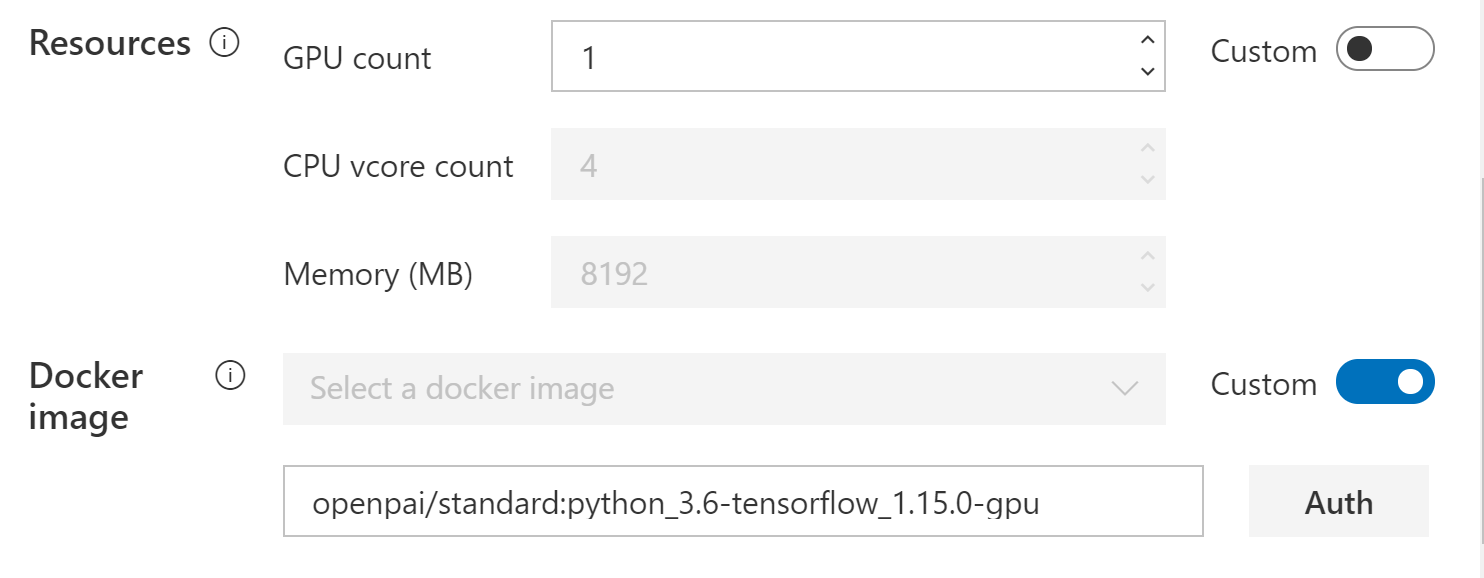
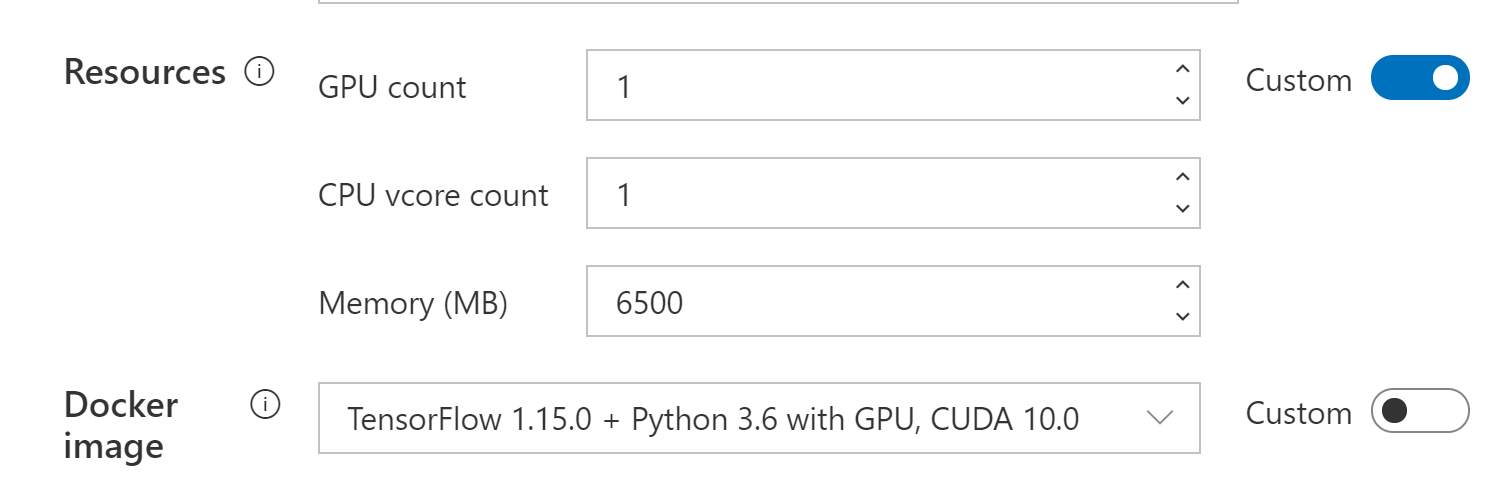
update docs

diff --git a/manual/cluster-user/quick-start.md b/manual/cluster-user/quick-start.md
@@ -2,8 +2,9 @@
 
 1. [Quick Start](/manual/cluster-user/quick-start.md) (this document)
     - [Submit a Hello World Job](#submit-a-hello-world-job)
-    - [Learn the Hello World Job](#learn-the-hello-world-job)
     - [Browse Stdout, Stderr, Full Logs, and Metrics](#browse-stdout-stderr-full-logs-and-metrics)
+    - [Submit a Hello World Job Step by Step](#submit-a-hello-world-job-step-by-step)
+    - [Learn the Hello World Job](#learn-the-hello-world-job)
 2. [Work with Docker Images](/manual/cluster-user/work-with-docker-images.md)
 3. [How to Manage Data](/manual/cluster-user/how-to-manage-data.md)
 4. [How to Debug Jobs](/manual/cluster-user/how-to-debug-jobs.md)
@@ -14,9 +15,30 @@
 
 ## Submit a Hello World Job
 
-The **job** of OpenPAI defines how to execute code(s) and command(s) in specified environment(s). A job can be run on single node or distributedly.
+The **job** of OpenPAI defines how to execute code(s) and command(s) in specified environment(s). It can be run on single node or distributedly.
 
-The following process submits a model training job implemented by TensorFlow on CIFAR-10 dataset. It downloads data and code from internet and helps getting started with OpenPAI. [Next Section](#Learn-the-Hello-World-Job) includes more details about this job config.
+For a quick start, please download [`hello-world-job.yaml`](./examples/hello-world-job.yaml).
+
+Then login to OpenPAI webportal, click `Submit Job` -> `Import Config`:
+
+<img src="/manual/cluster-user/imgs/quick-start-click-import.png" width="90%" height="90%" />
+
+Select the downloaded `hello-world-job.yaml` file, and submit the job:
+
+<img src="/manual/cluster-user/imgs/quick-start-click-submit.png" width="90%" height="90%" />
+
+Now your first OpenPAI job has been kicked off!
+
+
+## Browse Stdout, Stderr, Full logs, and Metrics
+
+The hello world job is implemented by TensorFlow. It trains a simple model on CIFAR-10 dataset for 1,000 steps with downloaded data and code from the Internet.
+
+TBD.
+
+## Submit the Hello World Job Step by Step
+
+Instead of importing a job configuration file, you can submit the hello world job directly through the web page. The following is a step-by-step guide:
 
 1. Login to OpenPAI web portal.
 
@@ -37,17 +59,17 @@ The following process submits a model training job implemented by TensorFlow on 
 
     <img src="/manual/cluster-user/imgs/hello-world-command.png" width="90%" height="90%" alt="hello_world2" />
 
-4. Specify the resources you need. By default only GPU number could be set. Toggle the `custom` button if you need to customize CPU number and memory. Here we use the default setting which utilizes 1 GPU, 4 CPU vCores, and 8192 MB memory.
+4. Specify the resources you need. By default only GPU number could be set. Toggle the `custom` button if you need to customize CPU number and memory. Here we use a customized setting: 1 GPU, 1 CPU, and 6500 MB memory.
 
-5. Specify the docker image. You can either use the listed docker images or take advantage of your own one. Here we use `openpai/standard:python_3.6-tensorflow_1.15.0-gpu`, which is one of the OpenPAI pre-built images. We will introduce more about docker images in [Work with Docker Images](/manual/cluster-user/work-with-docker-images.md).
+5. Specify the docker image. You can either use the listed docker images or take advantage of your own one. Here we select `TensorFlow 1.15.0 + Python 3.6 with GPU, CUDA 10.0`, which is a pre-built image. We will introduce more about docker images in [Work with Docker Images](/manual/cluster-user/work-with-docker-images.md).
 
    <img src="/manual/cluster-user/imgs/hello-world-resource-and-dockers.png" width="60%" height="60%" alt="hello_world3" />
 
-6. Click **Submit** to kick off your first OpenPAI job!
+6. Click **Submit** to submit the job.
 
 ## Learn the Hello World Job
 
-The Hello World job is set to download the CIFAR-10 dataset and train a simple model with 1,000 steps. Here are some detailed explanations about configs on the submission page:
+Here are some detailed explanations about configs on the submission page:
 
 - **Job name** is the name of current job. It must be unique in each user account. A meaningful name helps manage jobs well.
 
@@ -55,4 +77,4 @@ The Hello World job is set to download the CIFAR-10 dataset and train a simple m
 
 - **GPU count**, **CPU vcore count**, **Memory (MB)** are easy to understand. They specify corresponding hardware resources including the number of GPUs, the number of CPU cores, and MB of memory.
 
-## Browse Stdout, Stderr, Full logs, and Metrics
+We will introduce more details about the job configuration in [`Advanced Jobs`](./advanced-jobs.md).

diff --git a/manual/cluster-admin/how-to-uninstall-openpai.md b/manual/cluster-admin/how-to-uninstall-openpai.md
@@ -1,6 +1,6 @@
 # How to Uninstall OpenPAI
 
-The uninstallation of OpenPAI is not irreversible: all the data will be removed and you cannot find the back. If you need a backup, do it before uninstallation.
+The uninstallation of OpenPAI is irreversible: all the data will be removed and you cannot find them back. If you need a backup, do it before uninstallation.
 
 First, log in to the dev box machine and delete all PAI services:
 
@@ -8,8 +8,10 @@ First, log in to the dev box machine and delete all PAI services:
 ./paictl.py service delete
 ```
 
-Now all PAI services and data are deleted. If you want to destroy the Kubernetes cluster too, please go into [~/pai-deploy/kubespray folder](installation-guide.md#keep-a-folder), run:
+Now all PAI services and data are deleted. If you want to destroy the Kubernetes cluster too, please go into [`~/pai-deploy/kubespray` folder](installation-guide.md#keep-a-folder), run:
 
 ```bash
 ansible-playbook -i inventory/pai/hosts.yml reset.yml --become --become-user=root -e "@inventory/pai/openpai.yml"
 ```
+
+We recommend you to keep the folder `~/pai-deploy` for re-installation.

diff --git a/manual/cluster-admin/how-to-customize-cluster-by-plugins.md b/manual/cluster-admin/how-to-customize-cluster-by-plugins.md
@@ -2,7 +2,7 @@
 
 ## How to Install a Webportal Plugin
 
-Web portal plugin provides a way to add custom web pages to the web portal of PAI deployments, and easy to communicate with other PAI services, like REST server. It could provide customized solutions to different requirements.
+Webportal plugin provides a way to add custom web pages to the OpenPAI webportal. It can communicate with other PAI services, like the rest-server. It could provide customized solutions to different requirements.
 
 As an administrator, you can configure the web portal plugins in the `webportal.plugins` field of `service-configuration.yaml` (If you don't know what `service-configuration.yaml` is, please refer to [PAI Service Management and Paictl](./basic-management-operations.md#pai-service-management-and-paictl)):
 
